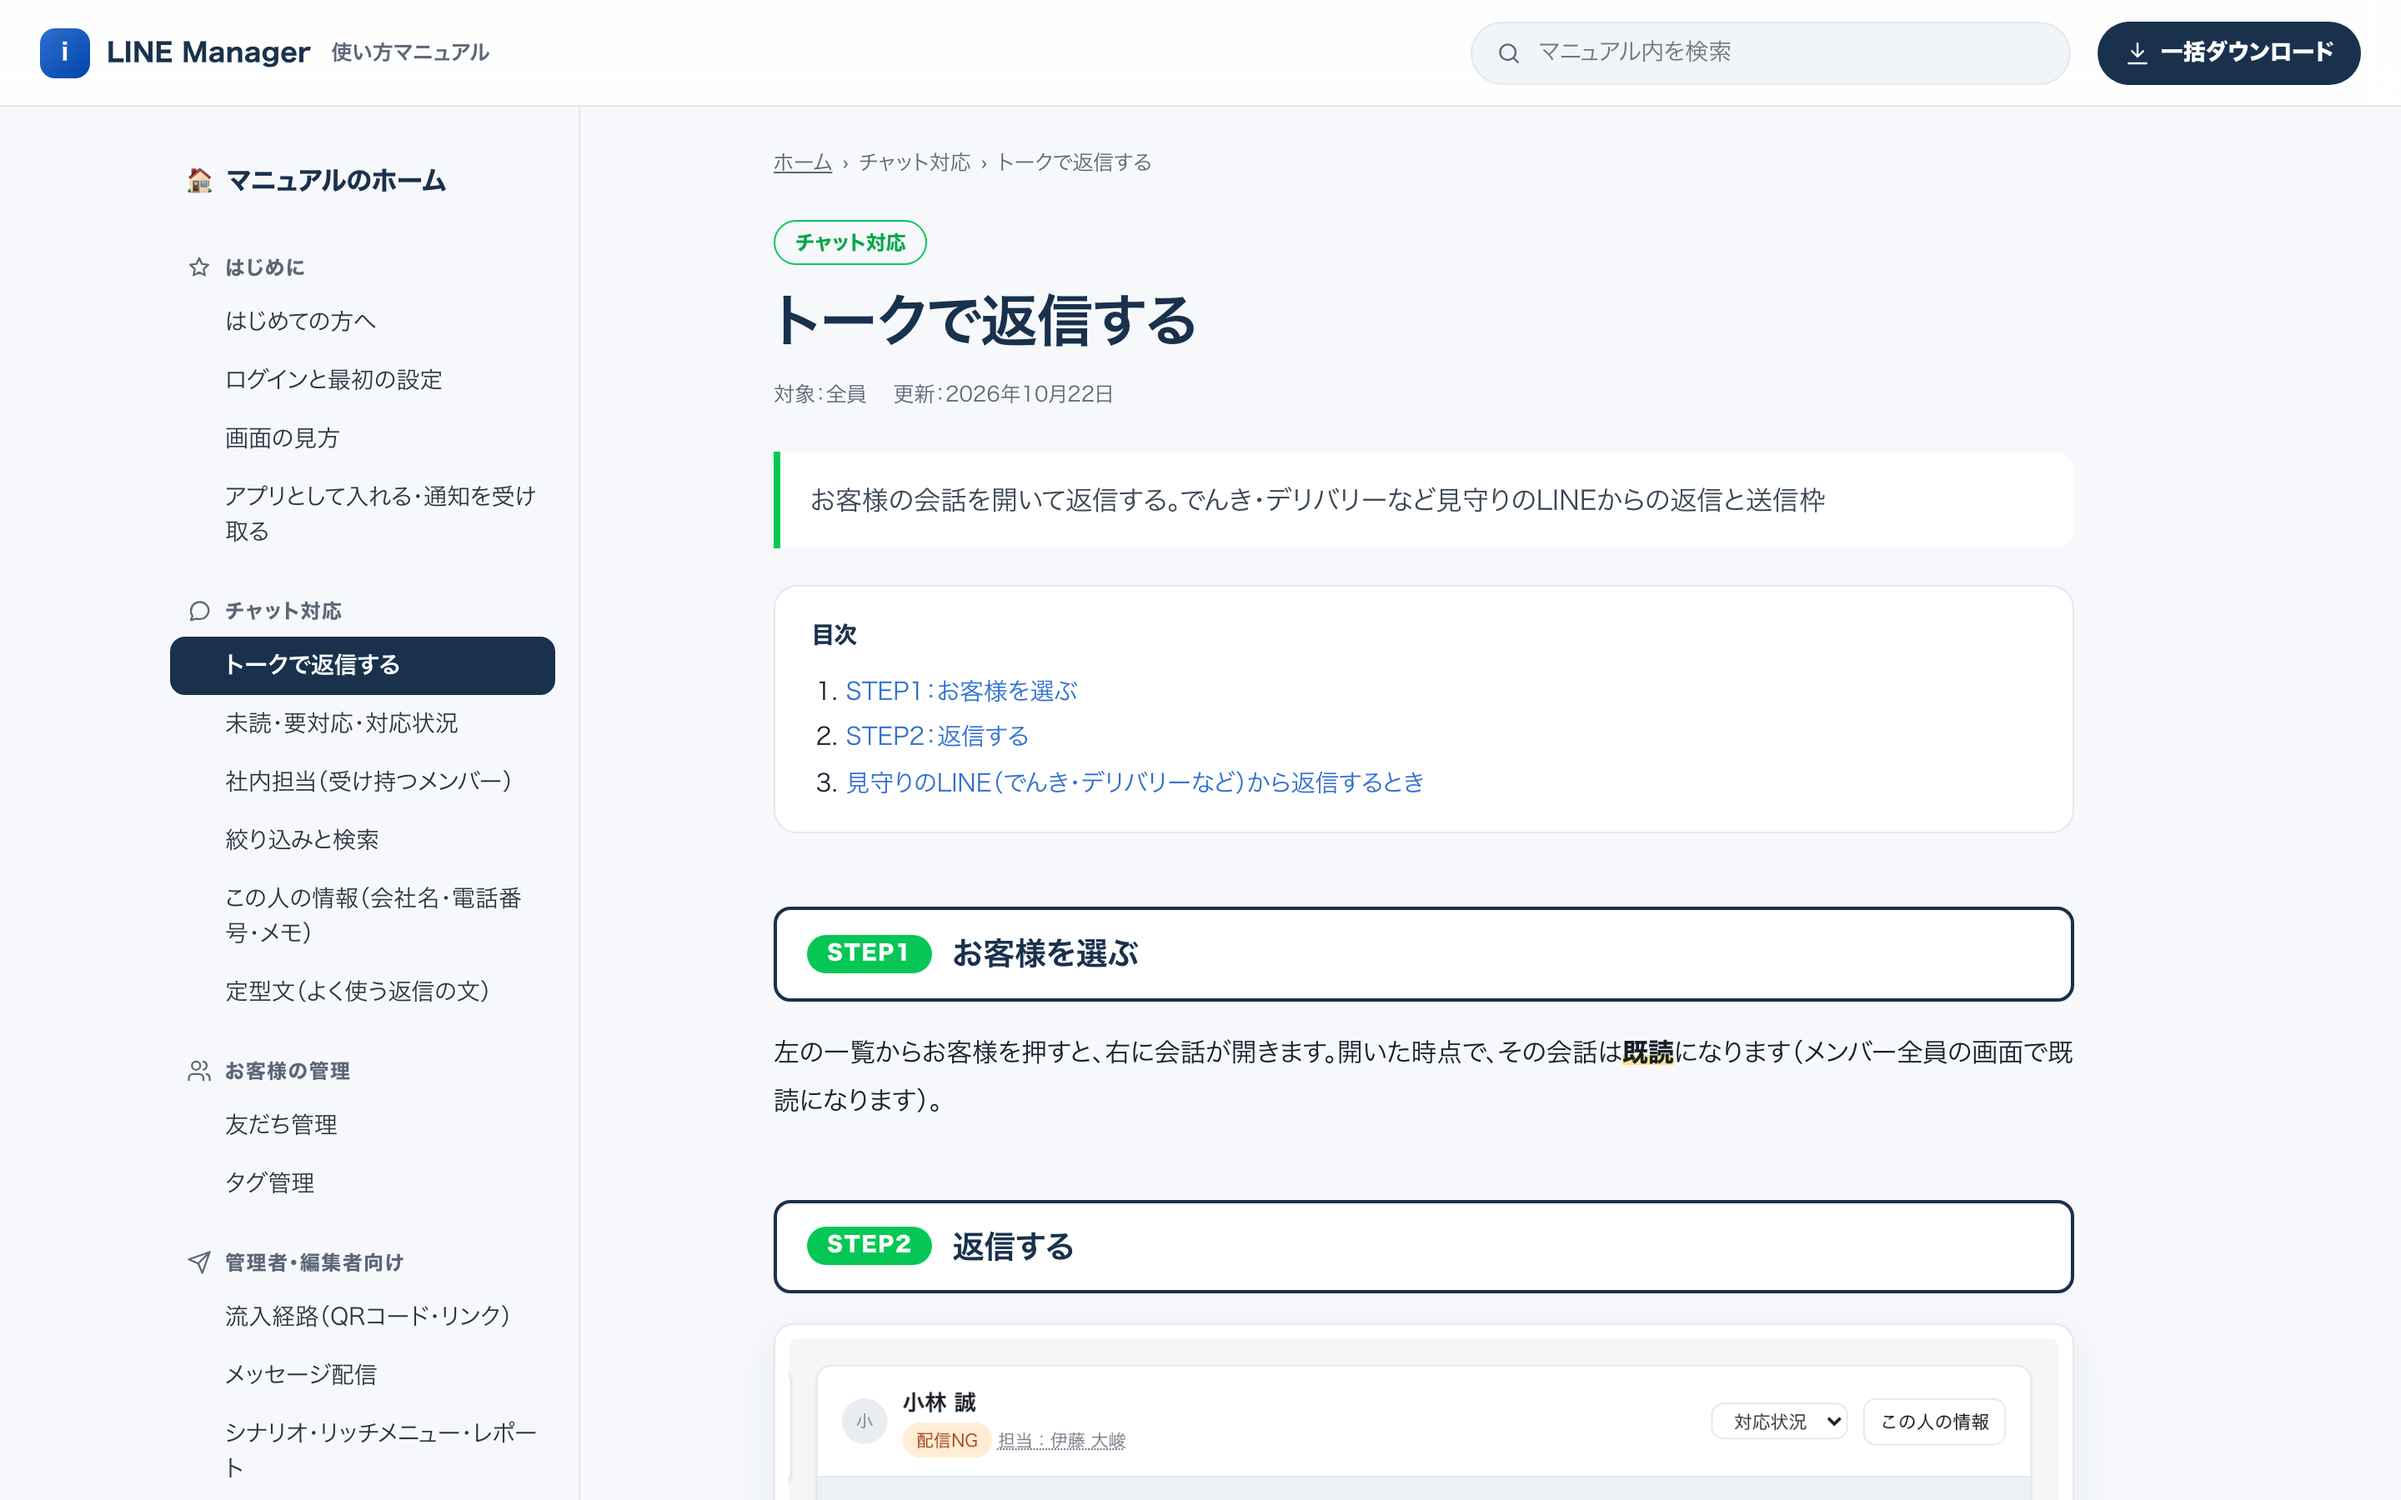
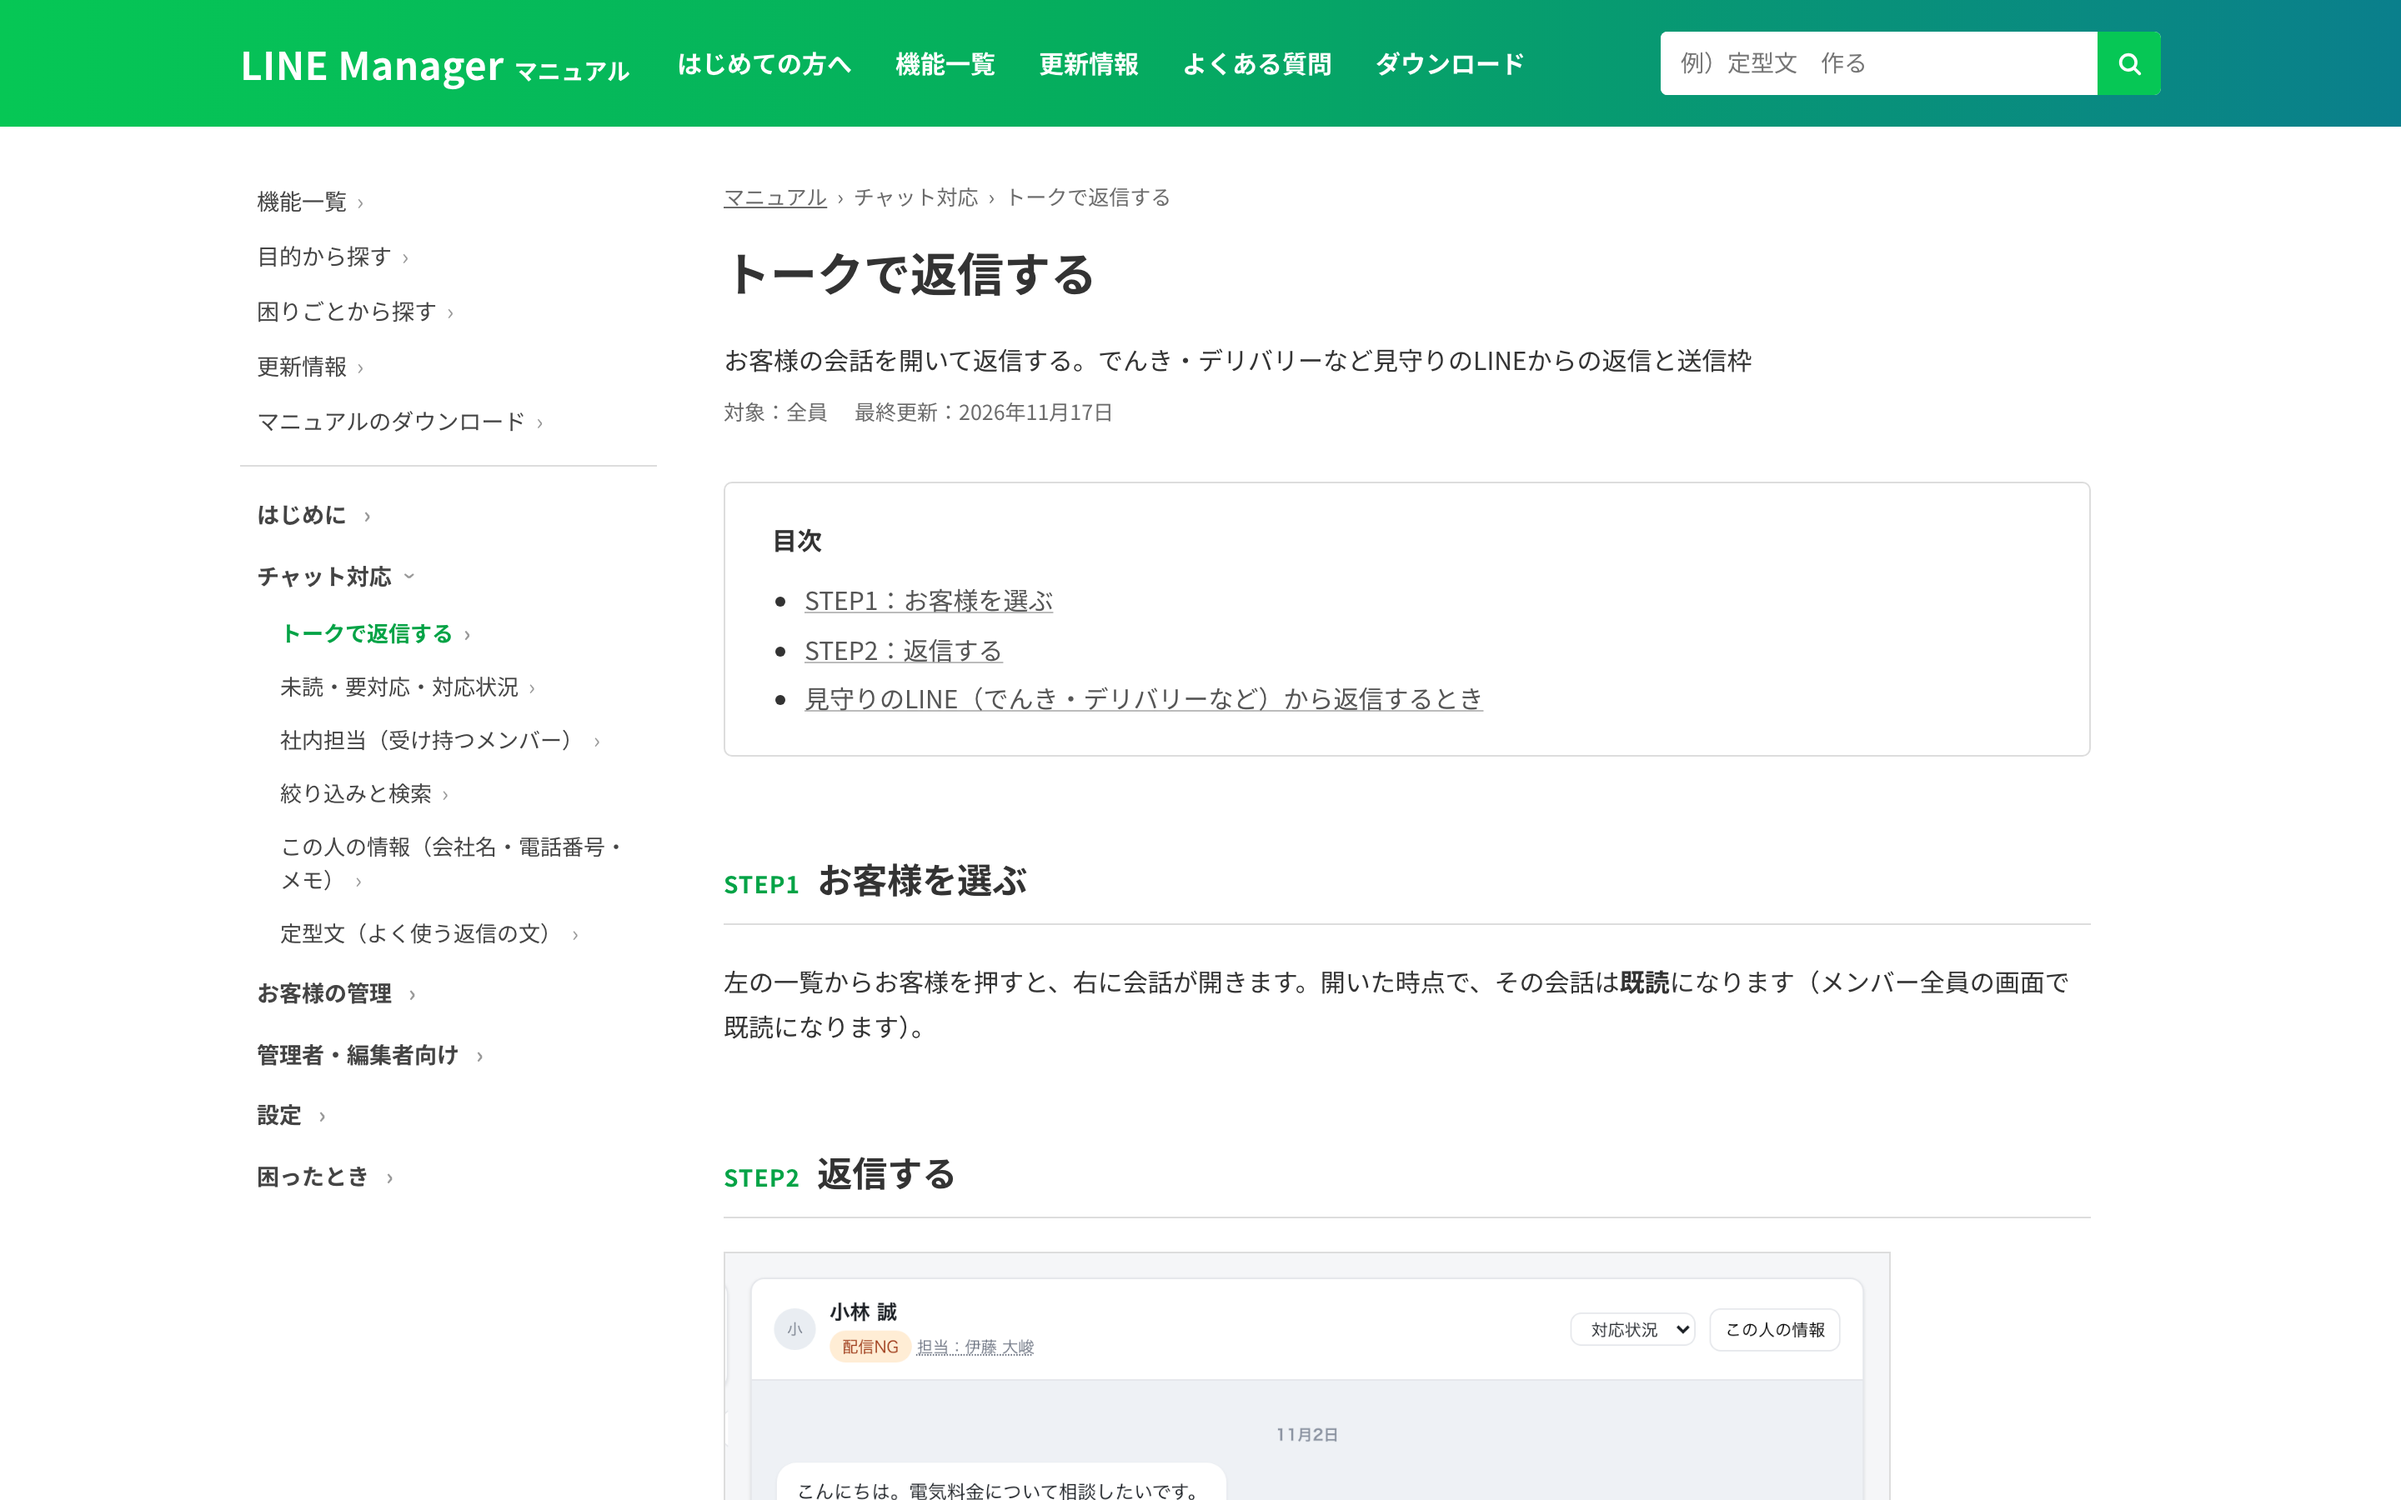
研修スライド13枚目を新しいマニュアルの画面に差し替え

diff --git a/ista-line-kenshu-a1b9bd/index.html b/ista-line-kenshu-a1b9bd/index.html
@@ -355,7 +355,7 @@ aside.n{display:none}
         <li>拡張ツールの<b>左メニューのいちばん下</b>から開く</li>
         <li>上の検索欄に<b>知りたいこと</b>を入れて探す（例：定型文、未読、担当）</li>
         <li><b>1つの操作につき1ページ</b>。画面の写真に赤枠と番号つき</li>
-        <li><b>PDF</b>（印刷用）も一括ダウンロードできる</li>
+        <li>「<b>目的から探す</b>」「<b>困りごとから探す</b>」からも探せる</li>
       </ul>
       <div class="box ok" style="margin-top:6px">今日の録画（研修動画）も、このマニュアルの中に載せる想定</div>
     </div>
